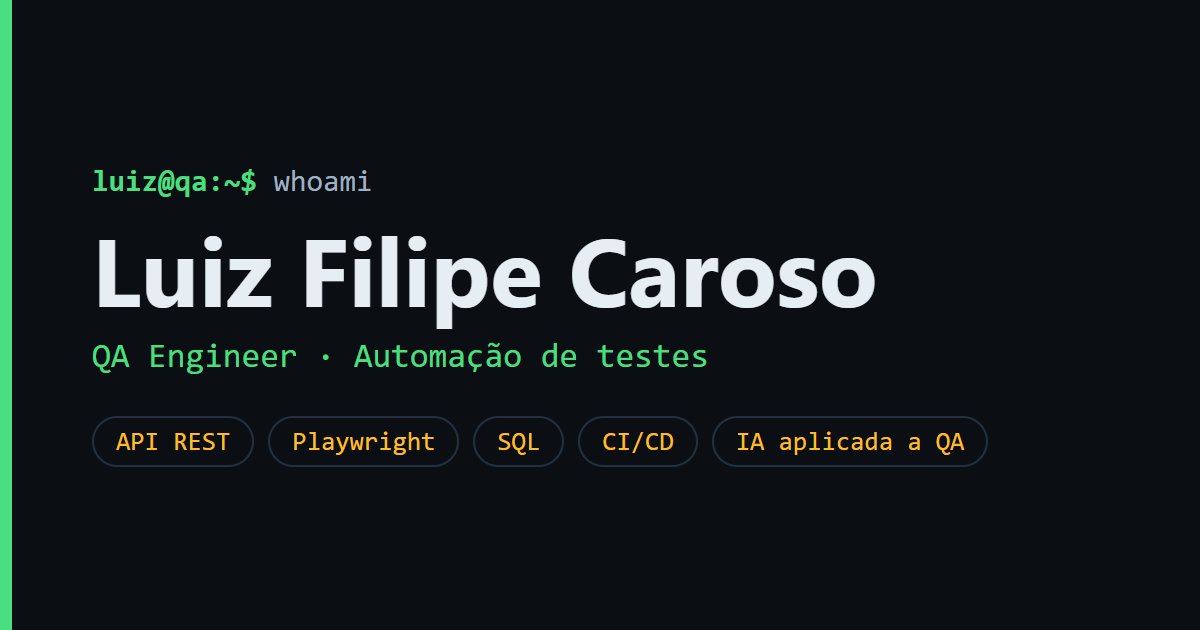
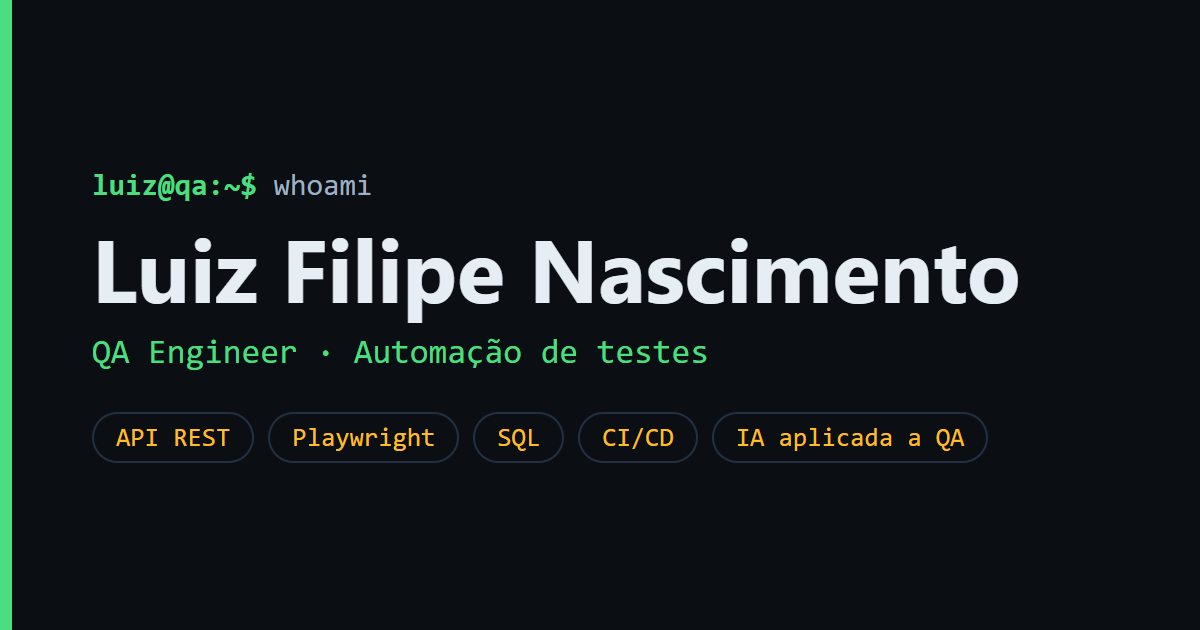
feat(site): nome de exibição Luiz Filipe Nascimento

diff --git a/site/index.html b/site/index.html
@@ -3,16 +3,16 @@
   <head>
     <meta charset="utf-8" />
     <meta name="viewport" content="width=device-width, initial-scale=1" />
-    <title>Luiz Filipe Caroso — QA Engineer</title>
+    <title>Luiz Filipe Nascimento — QA Engineer</title>
     <meta
       name="description"
-      content="Portfólio de Luiz Filipe Caroso, analista de qualidade de software (QA) desde 2021: testes funcionais, API REST, SQL, automação com Playwright e Cypress, ERP TOTVS e IA aplicada a QA."
+      content="Portfólio de Luiz Filipe Nascimento, analista de qualidade de software (QA) desde 2021: testes funcionais, API REST, SQL, automação com Playwright e Cypress, ERP TOTVS e IA aplicada a QA."
     />
-    <meta name="author" content="Luiz Filipe Caroso" />
+    <meta name="author" content="Luiz Filipe Nascimento" />
     <meta name="theme-color" content="#0b0f14" />
     <meta property="og:type" content="website" />
     <meta property="og:locale" content="pt_BR" />
-    <meta property="og:title" content="Luiz Filipe Caroso — QA Engineer" />
+    <meta property="og:title" content="Luiz Filipe Nascimento — QA Engineer" />
     <meta
       property="og:description"
       content="Qualidade de software ao longo de todo o ciclo: requisitos, testes, automação, dados e CI/CD."
@@ -21,7 +21,7 @@
     <meta property="og:image" content="https://lu1z-filipe.github.io/luiz-filipe-portfolio/og.png" />
     <meta property="og:image:width" content="1200" />
     <meta property="og:image:height" content="630" />
-    <meta property="og:image:alt" content="Luiz Filipe Caroso — QA Engineer, automação de testes" />
+    <meta property="og:image:alt" content="Luiz Filipe Nascimento — QA Engineer, automação de testes" />
     <meta name="twitter:card" content="summary_large_image" />
     <link rel="canonical" href="https://lu1z-filipe.github.io/luiz-filipe-portfolio/" />
     <link
@@ -36,7 +36,7 @@
 
     <header class="topbar">
       <nav class="wrap nav" aria-label="Principal">
-        <a class="brand" href="#inicio" aria-label="Início"><span class="prompt">~/</span>lfc</a>
+        <a class="brand" href="#inicio" aria-label="Início"><span class="prompt">~/</span>lfn</a>
         <ul>
           <li><a href="#sobre">sobre</a></li>
           <li><a href="#competencias">competências</a></li>
@@ -51,7 +51,7 @@
     <main id="conteudo">
       <section id="inicio" class="hero wrap" aria-labelledby="h-hero">
         <p class="term"><span class="prompt">luiz@qa:~$</span> whoami</p>
-        <h1 id="h-hero">Luiz Filipe Caroso</h1>
+        <h1 id="h-hero">Luiz Filipe Nascimento</h1>
         <p class="role">QA Engineer · Automação de testes · Qualidade ao longo de todo o ciclo</p>
         <p class="lead">
           Analista de qualidade desde 2021. Atuo da análise de requisitos e critérios de aceite até a homologação, com testes
@@ -275,7 +275,7 @@
     </main>
 
     <footer class="wrap foot">
-      <p>© <span id="year">2026</span> Luiz Filipe Caroso · Site estático, testado e publicado por pipeline de CI.</p>
+      <p>© <span id="year">2026</span> Luiz Filipe Nascimento · Site estático, testado e publicado por pipeline de CI.</p>
     </footer>
   </body>
 </html>

diff --git a/site/tests/site.spec.js b/site/tests/site.spec.js
@@ -19,7 +19,7 @@ test('carrega sem erros de console nem requisições falhas', async ({ page }) =
 test('estrutura semântica: idioma, título, um h1 e landmarks', async ({ page }) => {
   await page.goto('/');
   await expect(page.locator('html')).toHaveAttribute('lang', 'pt-BR');
-  await expect(page).toHaveTitle(/Luiz Filipe Caroso/);
+  await expect(page).toHaveTitle(/Luiz Filipe Nascimento/);
   await expect(page.locator('meta[name="description"]')).toHaveAttribute('content', /QA/);
   await expect(page.locator('meta[property="og:title"]')).toHaveCount(1);
   await expect(page.locator('h1')).toHaveCount(1);

diff --git a/README.md b/README.md
@@ -1,4 +1,4 @@
-# Portfólio de QA — Luiz Filipe Caroso
+# Portfólio de QA — Luiz Filipe Nascimento
 
 Portfólio profissional (site estático) acompanhado de **estudos técnicos de QA e automação** executáveis e testados em CI.
 
